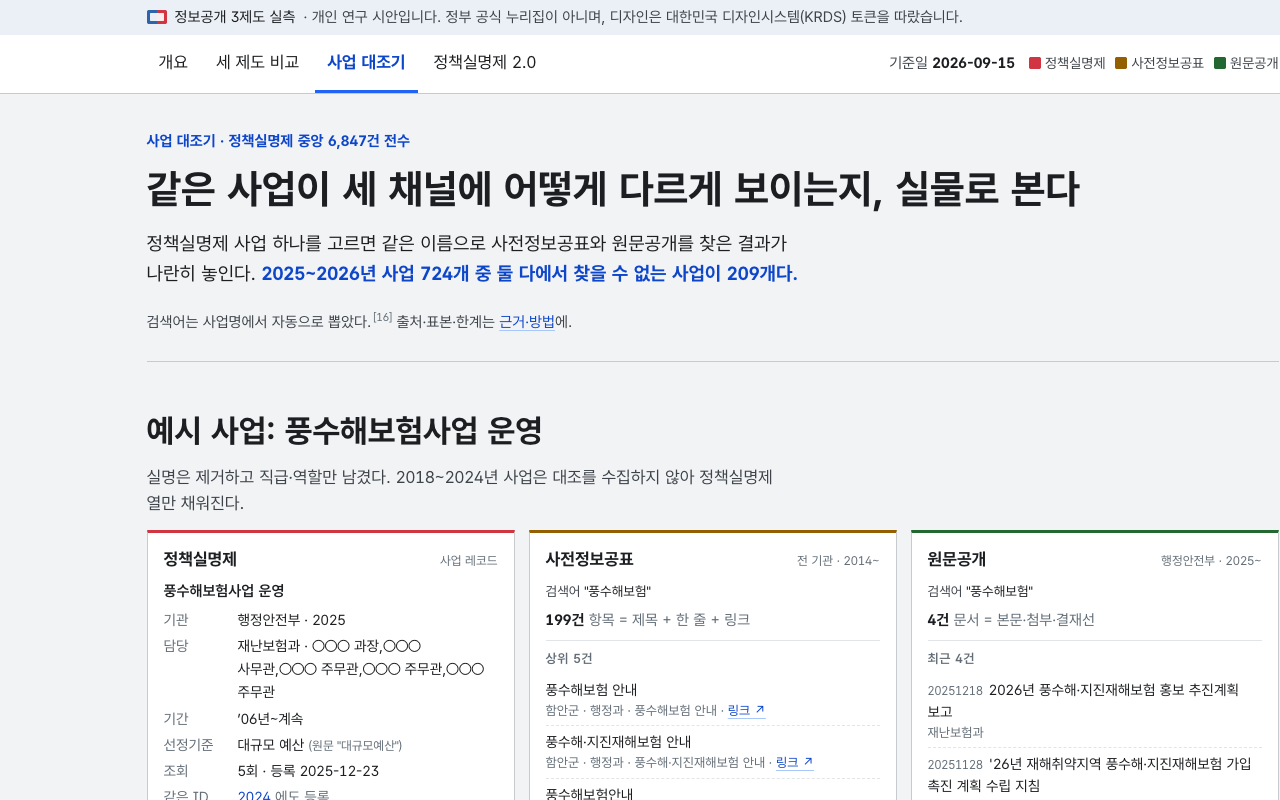
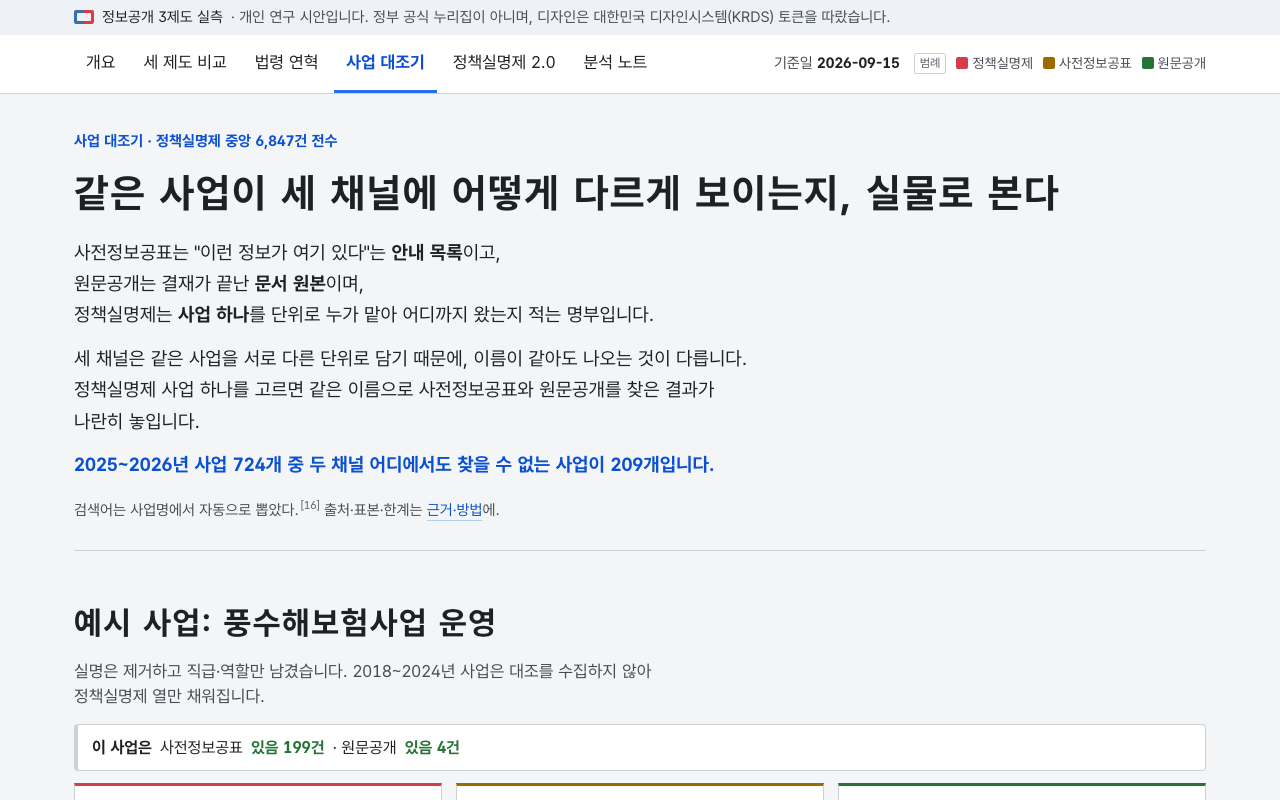
feat(index): overhaul the overview — six-note digest section, fourth page card, refreshed ticker and previews
- tools/build-digest.mjs → notes/digest.json: headline number and one-line finding per note, read from each note's output file; injected via /*__DGDATA__*/
- overview: '여섯 번 재어 보니' six cards after the 질문 셋 table; page cards now four (분석 노트 added, two columns); ticker leads with note numbers and takes 국민신청 from note 1's data
- date stamp unified to 2026-09-15~18 on 개요·비교·2.0·노트 (history keeps its law snapshot date, explorer its 09-15 collection date)
- four previews regenerated from page tops (2.0 preview showed the retired 정책 번호 mockup)

Claude-Session: https://claude.ai/code/session_01TUF7RFUw4MQjg7DEHsXea4

diff --git a/docs/index.html b/docs/index.html
@@ -295,7 +295,20 @@ body{background:var(--cream);color:var(--ink0)}
 .ov td.j{font-size:13px;color:var(--acc);font-weight:600;white-space:nowrap}
 
 /* page cards */
-.pages{display:grid;grid-template-columns:repeat(3,minmax(0,1fr));gap:16px}
+.pages{display:grid;grid-template-columns:repeat(2,minmax(0,1fr));gap:16px}
+/* 분석 노트 여섯 — 발견 한 줄 + 대표 숫자 */
+.fn{display:grid;grid-template-columns:repeat(3,minmax(0,1fr));gap:14px}
+.fn a{display:flex;flex-direction:column;border:1px solid var(--line-c);border-radius:var(--r-m);background:#fff;padding:18px 20px 16px;color:inherit;text-decoration:none;transition:border-color .15s}
+.fn a:hover{border-color:var(--ink2)}
+.fn .g{font-size:12px;font-weight:700;color:var(--ink2);letter-spacing:.02em}
+.fn .g i{display:inline-block;font-style:normal;font-family:var(--mono);font-weight:500;margin-right:6px;color:var(--ink0)}
+.fn h3{font-size:17px;line-height:1.4;margin:6px 0 12px;color:var(--ink0);letter-spacing:-.01em}
+.fn .v{font-family:var(--mono);font-size:27px;font-weight:500;letter-spacing:-.02em;color:var(--ink0);line-height:1.1}
+.fn .u{display:block;font-size:13px;color:var(--ink2);margin-top:4px}
+.fn p{font-size:14px;line-height:1.6;color:var(--ink2);margin:10px 0 0;flex:1}
+.fn .go{font-size:13px;font-weight:700;color:var(--ink0);margin-top:12px}
+@media (max-width:900px){.fn{grid-template-columns:1fr 1fr}}
+@media (max-width:640px){.fn{grid-template-columns:1fr}}
 .pc{background:var(--card);border:1px solid var(--line-c);border-radius:var(--r-m);overflow:hidden;text-decoration:none;color:var(--ink0);display:flex;flex-direction:column;transition:transform .2s,box-shadow .2s}
 .pc:hover{transform:translateY(-3px);box-shadow:0 24px 40px -24px rgba(21,23,28,.35)}
 .pc .img{aspect-ratio:16/10;background:var(--cream-2);overflow:hidden;border-bottom:1px solid var(--cream-2)}
@@ -395,7 +408,7 @@ body{background:var(--cream);color:var(--ink0)}
 <div class="masthead"><div class="in"><span class="flag" aria-hidden="true"></span><span>정보공개 3제도 실측</span><span class="note">· 개인 연구 시안입니다. 정부 공식 누리집이 아니며, 디자인은 대한민국 디자인시스템(KRDS) 토큰을 따랐습니다.</span></div></div>
 <div class="bar"><div class="in">
   <nav><a class="on" href="./"><span class="long">개요</span><span class="short">개요</span></a><a href="compare.html"><span class="long">세 제도 비교</span><span class="short">비교</span></a><a href="history.html"><span class="long">법령 연혁</span><span class="short">연혁</span></a><a href="explorer/"><span class="long">사업 대조기</span><span class="short">대조</span></a><a href="policy2.html"><span class="long">정책실명제 2.0</span><span class="short">2.0</span></a><a href="notes.html"><span class="long">분석 노트</span><span class="short">분석</span></a></nav>
-  <div class="meta"><span>기준일 <b>2026-09-15~16</b></span><span class="legend"><span><i class="rn"></i>정책실명제</span><span><i class="pv"></i>사전정보공표</span><span><i class="og"></i>원문공개</span></span></div>
+  <div class="meta"><span>기준일 <b>2026-09-15~18</b></span><span class="legend"><span><i class="rn"></i>정책실명제</span><span><i class="pv"></i>사전정보공표</span><span><i class="og"></i>원문공개</span></span></div>
 </div></div>
 
 <main class="wrap home" id="content">
@@ -403,7 +416,7 @@ body{background:var(--cream);color:var(--ink0)}
   <!-- HERO -->
   <section class="hero">
     <div>
-      <div class="eyebrow">정보공개포털 실측 · 2026-09-15~16 기준</div>
+      <div class="eyebrow">정보공개포털 실측 · 2026-09-15~18 기준</div>
       <h1>세 제도는<br><em>단위</em>가 다르다</h1>
       <p class="lede">사전정보공표는 <b>안내 목록</b>, 원문공개는 <b>결재문서</b>,<br>
         정책실명제는 <b>사업 하나</b>를 단위로 누가 맡아 어디까지 왔는지 적는 명부입니다.</p>
@@ -441,6 +454,15 @@ body{background:var(--cream);color:var(--ink0)}
       <a class="more" href="notes.html#note4">세 얼굴 전부 보기 →</a>
     </div>
     <div class="qa" id="qaHome"></div>
+  </section>
+
+  <!-- 분석 노트 여섯 — 발견과 대표 숫자 -->
+  <section class="sec">
+    <div class="head">
+      <div><h2>여섯 번 재어 보니</h2><p class="sub">세 제도를 참여·위상·공개·연계 네 갈래에서 실측한 분석 노트 여섯 편입니다. 숫자마다 별첨과 다시 돌릴 수 있는 산출 스크립트가 붙어 있습니다.</p></div>
+      <a class="more" href="notes.html">분석 노트 전부 보기 →</a>
+    </div>
+    <div class="fn" id="fnHome"></div>
   </section>
 
   <!-- 비유: 세 곳으로 흩어진 현장 → 대장 한 장 -->
@@ -592,11 +614,12 @@ body{background:var(--cream);color:var(--ink0)}
 
   <!-- PAGES -->
   <section class="sec">
-    <div class="head"><div><h2>비교하고, 대조하고, 잇는다</h2><p class="sub">세 제도가 서로를 대체하지 못하는 이유, 같은 사업을 세 채널에서 나란히 놓는 대조기, 정책 하나로 결정·문서·사람을 잇는 2.0 화면입니다.</p></div></div>
+    <div class="head"><div><h2>비교하고, 대조하고, 잇고, 재다</h2><p class="sub">세 제도가 서로를 대체하지 못하는 이유, 같은 사업을 세 채널에서 나란히 놓는 대조기, 국정과제 번호로 결정·문서·사람을 잇는 2.0 화면, 그리고 실측 노트 여섯 편입니다.</p></div></div>
     <div class="pages">
       <a class="pc" href="compare.html"><div class="img"><img src="assets/preview-compare.png" alt="세 제도 비교" loading="lazy"></div><div class="body"><span class="no">01 · 비교</span><h3>세 제도 비교</h3><p>아홉 기준 매트릭스와 그 아래 한 층 더. 항목을 고르면 세 제도의 실측치와 근거가 나란히 열린다.</p><span class="go">열기 <svg viewBox="0 0 24 24" fill="none" stroke="currentColor" stroke-width="2.2" stroke-linecap="round" stroke-linejoin="round"><path d="M5 12h14M12 5l7 7-7 7"/></svg></span></div></a>
       <a class="pc" href="explorer/"><div class="img"><img src="assets/preview-explorer.png" alt="사업 대조기" loading="lazy"></div><div class="body"><span class="no">02 · 대조</span><h3>사업 대조기</h3><p>정책실명제 사업 하나를 고르면 사전정보공표·원문공개의 실제 등록 건이 나란히. 기관별 현황과 근거 각주까지.</p><span class="go">열기 <svg viewBox="0 0 24 24" fill="none" stroke="currentColor" stroke-width="2.2" stroke-linecap="round" stroke-linejoin="round"><path d="M5 12h14M12 5l7 7-7 7"/></svg></span></div></a>
       <a class="pc" href="policy2.html"><div class="img"><img src="assets/preview-policy2.png" alt="정책실명제 2.0" loading="lazy"></div><div class="body"><span class="no">03 · 2.0</span><h3>정책실명제 2.0</h3><p>정책 하나를 열면 4년 계보, 후속 조치, 결재문서와 원문이 한 화면에. 행안부 주민자치회 사업을 실측 데이터로 옮긴 시안.</p><span class="go">열기 <svg viewBox="0 0 24 24" fill="none" stroke="currentColor" stroke-width="2.2" stroke-linecap="round" stroke-linejoin="round"><path d="M5 12h14M12 5l7 7-7 7"/></svg></span></div></a>
+      <a class="pc" href="notes.html"><div class="img"><img src="assets/preview-notes.png" alt="분석 노트" loading="lazy"></div><div class="body"><span class="no">04 · 노트</span><h3>분석 노트</h3><p>참여·위상·공개·연계 네 갈래 여섯 편. 국정과제 123개와 세부과제 554개를 정책실명제와 대조한 격자, 누리집 실측, 세 얼굴까지.</p><span class="go">열기 <svg viewBox="0 0 24 24" fill="none" stroke="currentColor" stroke-width="2.2" stroke-linecap="round" stroke-linejoin="round"><path d="M5 12h14M12 5l7 7-7 7"/></svg></span></div></a>
     </div>
   </section>
 
@@ -618,6 +641,98 @@ body{background:var(--cream);color:var(--ink0)}
     </div>
   </section>
 </main>
+
+<script>/* 개요 요약 — notes/digest.json (node tools/build-digest.mjs) */
+
+const DG = {
+  "작성일": "2026-09-17",
+  "기준일": "2026-09-15~18",
+  "노트": [
+    {
+      "n": 1,
+      "g": "참여",
+      "id": "note1",
+      "t": "국민이 신청한 정책실명제는 왜 줄었나",
+      "v": "35 → 2건",
+      "u": "2019 → 2025",
+      "d": "국민신청 조문이 생긴 2018년이 정점이었고, 지금은 전체 6,847건 중 135건(2%)입니다."
+    },
+    {
+      "n": 2,
+      "g": "위상",
+      "id": "note2",
+      "t": "지표를 바꾸면 우열이 뒤집힌다",
+      "v": "8지표",
+      "u": "4장면",
+      "d": "정책 단위 정합성·책임 소재·갱신 적시성·접근 용이성 등 어느 축을 고르느냐에 따라 앞서는 제도가 달라집니다. 우열이 아니라 기능 분담의 문제입니다."
+    },
+    {
+      "n": 3,
+      "g": "공개",
+      "id": "note3",
+      "t": "포털의 0은 미활동이 아니라 미등록이다",
+      "v": "317건",
+      "u": "누리집엔 있고 포털엔 없음",
+      "d": "기관 누리집 15곳을 직접 열어 셌습니다. 검사가 짚은 22칸 중 17칸이 맞았습니다(적중률 77%)."
+    },
+    {
+      "n": 4,
+      "g": "연계",
+      "id": "note4",
+      "t": "같은 사업의 세 얼굴 — 명패, 안내판, 원본",
+      "v": "3질문",
+      "u": "답하는 제도가 하나씩 다름",
+      "d": "풍수해보험 하나를 세 제도에서 꺼내 국민이 물을 법한 질문 셋을 던졌습니다. 누가 맡았나는 정책실명제, 어떻게 가입하나는 사전정보공표, 언제 무엇을 결정했나는 원문공개가 답합니다."
+    },
+    {
+      "n": 5,
+      "g": "연계",
+      "id": "note5",
+      "t": "국정과제에서 정책실명제로 — 지금은 건너갈 수 없다",
+      "v": "3 / 123",
+      "u": "번호로 닿는 과제",
+      "d": "정책실명제 카드에 국정과제 번호 칸이 없습니다. 주관부처를 다리로 삼아도 올해 사업을 올린 부처가 있는 과제는 10개뿐이고(45곳 중 7곳만 등록), 그마저 어느 과제인지는 특정할 수 없습니다. 주관부처가 포털에 아예 없는 과제도 10개입니다."
+    },
+    {
+      "n": 6,
+      "g": "위상",
+      "id": "note6",
+      "t": "이름 있는 곳에 서사가 없고, 서사 있는 곳에 이름이 없다",
+      "v": "95 / 554",
+      "u": "세부과제에 정책실명제 사업 있음 · 17%",
+      "d": "세부과제 554개를 정책실명제 사업과 이름·본문으로 대조하고 사람이 읽어 판정했습니다. 확실 95개(43개 과제). 카드 784장 중 국정과제를 본문에 적은 카드는 14장입니다."
+    }
+  ],
+  "띠": [
+    [
+      "국정과제 123개 중 번호로 닿는 과제",
+      "3개",
+      "d",
+      "정책실명제 카드에 번호 칸 없음"
+    ],
+    [
+      "세부과제 554개 중 정책실명제 사업 있음",
+      "95개",
+      "",
+      "17% · 사람이 읽어 판정"
+    ],
+    [
+      "누리집엔 있고 포털엔 없는 사업",
+      "317건",
+      "d",
+      "누리집 15곳 실측"
+    ],
+    [
+      "국정과제를 본문에 적은 카드",
+      "14장",
+      "d",
+      "784장 중"
+    ]
+  ]
+}
+;
+
+</script>
 
 <script>
 (function(){
@@ -829,6 +944,13 @@ body{background:var(--cream);color:var(--ink0)}
   }
 }
 ;
+  (function(){
+    var el=document.getElementById('fnHome'); if(!el||!DG||!DG.노트) return;
+    var esc=function(s){ return String(s).replace(/[&<>"]/g,function(c){ return {'&':'&amp;','<':'&lt;','>':'&gt;','"':'&quot;'}[c]; }); };
+    el.innerHTML=DG.노트.map(function(n){
+      return '<a href="notes.html#'+n.id+'"><span class="g"><i>'+n.n+'</i>'+esc(n.g)+'</span><h3>'+esc(n.t)+'</h3><span class="v">'+esc(n.v)+'</span><span class="u">'+esc(n.u)+'</span><p>'+esc(n.d)+'</p><span class="go">노트 '+n.n+' 열기 →</span></a>';
+    }).join('');
+  })();
   var qa = document.getElementById('qaHome');
   if (!TF || !qa) return;
   var esc = function(s){ return String(s).replace(/&/g,"&amp;").replace(/</g,"&lt;"); };
@@ -874,7 +996,9 @@ body{background:var(--cream);color:var(--ink0)}
 
   /* ── 티커 ── */
   const TK=[['정책실명제 등록 부처',"42 → 7",'d','2018 → 2026.9'],['등록 사업',"959 → 167",'d','2018 → 2026.9'],['포털에서 열린 횟수 · 한가운데 사업',"10 → 0회",'d','2018 → 2026'],['관련 원문이 붙은 사업',"35%",'','784건 중 272'],['국민신청 선정',"36 → 5건",'d','2018 → 2025'],['2025 등록 후 2026 미등록',"23기관",'d','30곳 중'],['원문공개 하루 신규',"4,000건",'u','중앙·지자체 평일'],['사전정보공표 항목',"246,604",'u','포털 전체'],['지자체 정책실명제 데이터',"0건",'d','포털엔 링크 261개'],['중앙 원문공개율',"49%",'','2025 · 대검 1% ~ 기상청 80%']];
-  const tkHtml=TK.map(([k,v,c,s])=>`<div class="it"><span class="k">${k}</span><span class="v ${c}">${v}</span><span class="k">${s}</span></div>`).join('');
+  // 노트에서 나온 숫자를 앞에 세운다. 국민신청 항목은 노트 ①의 산출값으로 바꾼다(정적 값과 두 번 세지 않기 위해).
+  const TKD=(DG&&DG.띠?DG.띠:[]).concat(DG&&DG.노트?[['국민이 신청한 정책실명제',DG.노트[0].v,'d',DG.노트[0].u]]:[]).concat(TK.filter(r=>r[0]!=='국민신청 선정'));
+  const tkHtml=TKD.map(([k,v,c,s])=>`<div class="it"><span class="k">${k}</span><span class="v ${c}">${v}</span><span class="k">${s}</span></div>`).join('');
   $('#tk').innerHTML=tkHtml+tkHtml;
 
   /* ── 아홉 기준 요약 ── */
@@ -897,7 +1021,7 @@ body{background:var(--cream);color:var(--ink0)}
 </script>
 <div class="kfoot"><div class="in">
   <span class="id"><span class="flag" aria-hidden="true"></span>open-go-corpus · 정보공개 3제도 실측</span>
-  <span class="note">출처: 정보공개포털(open.go.kr) 실측 2026-09-15~16 · 법령: 국가법령정보센터 · 코드 <a href="https://github.com/hosungseo/open-go-corpus">github.com/hosungseo/open-go-corpus</a> · 담당자·결재선 실명 제거</span>
+  <span class="note">출처: 정보공개포털(open.go.kr) 실측 2026-09-15~18 · 법령: 국가법령정보센터 · 코드 <a href="https://github.com/hosungseo/open-go-corpus">github.com/hosungseo/open-go-corpus</a> · 담당자·결재선 실명 제거</span>
 </div></div>
 </body>
 </html>

diff --git a/docs/src/index.html b/docs/src/index.html
@@ -99,7 +99,20 @@ body{background:var(--cream);color:var(--ink0)}
 .ov td.j{font-size:13px;color:var(--acc);font-weight:600;white-space:nowrap}
 
 /* page cards */
-.pages{display:grid;grid-template-columns:repeat(3,minmax(0,1fr));gap:16px}
+.pages{display:grid;grid-template-columns:repeat(2,minmax(0,1fr));gap:16px}
+/* 분석 노트 여섯 — 발견 한 줄 + 대표 숫자 */
+.fn{display:grid;grid-template-columns:repeat(3,minmax(0,1fr));gap:14px}
+.fn a{display:flex;flex-direction:column;border:1px solid var(--line-c);border-radius:var(--r-m);background:#fff;padding:18px 20px 16px;color:inherit;text-decoration:none;transition:border-color .15s}
+.fn a:hover{border-color:var(--ink2)}
+.fn .g{font-size:12px;font-weight:700;color:var(--ink2);letter-spacing:.02em}
+.fn .g i{display:inline-block;font-style:normal;font-family:var(--mono);font-weight:500;margin-right:6px;color:var(--ink0)}
+.fn h3{font-size:17px;line-height:1.4;margin:6px 0 12px;color:var(--ink0);letter-spacing:-.01em}
+.fn .v{font-family:var(--mono);font-size:27px;font-weight:500;letter-spacing:-.02em;color:var(--ink0);line-height:1.1}
+.fn .u{display:block;font-size:13px;color:var(--ink2);margin-top:4px}
+.fn p{font-size:14px;line-height:1.6;color:var(--ink2);margin:10px 0 0;flex:1}
+.fn .go{font-size:13px;font-weight:700;color:var(--ink0);margin-top:12px}
+@media (max-width:900px){.fn{grid-template-columns:1fr 1fr}}
+@media (max-width:640px){.fn{grid-template-columns:1fr}}
 .pc{background:var(--card);border:1px solid var(--line-c);border-radius:var(--r-m);overflow:hidden;text-decoration:none;color:var(--ink0);display:flex;flex-direction:column;transition:transform .2s,box-shadow .2s}
 .pc:hover{transform:translateY(-3px);box-shadow:0 24px 40px -24px rgba(21,23,28,.35)}
 .pc .img{aspect-ratio:16/10;background:var(--cream-2);overflow:hidden;border-bottom:1px solid var(--cream-2)}
@@ -199,7 +212,7 @@ body{background:var(--cream);color:var(--ink0)}
 <div class="masthead"><div class="in"><span class="flag" aria-hidden="true"></span><span>정보공개 3제도 실측</span><span class="note">· 개인 연구 시안입니다. 정부 공식 누리집이 아니며, 디자인은 대한민국 디자인시스템(KRDS) 토큰을 따랐습니다.</span></div></div>
 <div class="bar"><div class="in">
   <nav><a class="on" href="./"><span class="long">개요</span><span class="short">개요</span></a><a href="compare.html"><span class="long">세 제도 비교</span><span class="short">비교</span></a><a href="history.html"><span class="long">법령 연혁</span><span class="short">연혁</span></a><a href="explorer/"><span class="long">사업 대조기</span><span class="short">대조</span></a><a href="policy2.html"><span class="long">정책실명제 2.0</span><span class="short">2.0</span></a><a href="notes.html"><span class="long">분석 노트</span><span class="short">분석</span></a></nav>
-  <div class="meta"><span>기준일 <b>2026-09-15~16</b></span><span class="legend"><span><i class="rn"></i>정책실명제</span><span><i class="pv"></i>사전정보공표</span><span><i class="og"></i>원문공개</span></span></div>
+  <div class="meta"><span>기준일 <b>2026-09-15~18</b></span><span class="legend"><span><i class="rn"></i>정책실명제</span><span><i class="pv"></i>사전정보공표</span><span><i class="og"></i>원문공개</span></span></div>
 </div></div>
 
 <main class="wrap home" id="content">
@@ -207,7 +220,7 @@ body{background:var(--cream);color:var(--ink0)}
   <!-- HERO -->
   <section class="hero">
     <div>
-      <div class="eyebrow">정보공개포털 실측 · 2026-09-15~16 기준</div>
+      <div class="eyebrow">정보공개포털 실측 · 2026-09-15~18 기준</div>
       <h1>세 제도는<br><em>단위</em>가 다르다</h1>
       <p class="lede">사전정보공표는 <b>안내 목록</b>, 원문공개는 <b>결재문서</b>,<br>
         정책실명제는 <b>사업 하나</b>를 단위로 누가 맡아 어디까지 왔는지 적는 명부입니다.</p>
@@ -245,6 +258,15 @@ body{background:var(--cream);color:var(--ink0)}
       <a class="more" href="notes.html#note4">세 얼굴 전부 보기 →</a>
     </div>
     <div class="qa" id="qaHome"></div>
+  </section>
+
+  <!-- 분석 노트 여섯 — 발견과 대표 숫자 -->
+  <section class="sec">
+    <div class="head">
+      <div><h2>여섯 번 재어 보니</h2><p class="sub">세 제도를 참여·위상·공개·연계 네 갈래에서 실측한 분석 노트 여섯 편입니다. 숫자마다 별첨과 다시 돌릴 수 있는 산출 스크립트가 붙어 있습니다.</p></div>
+      <a class="more" href="notes.html">분석 노트 전부 보기 →</a>
+    </div>
+    <div class="fn" id="fnHome"></div>
   </section>
 
   <!-- 비유: 세 곳으로 흩어진 현장 → 대장 한 장 -->
@@ -396,11 +418,12 @@ body{background:var(--cream);color:var(--ink0)}
 
   <!-- PAGES -->
   <section class="sec">
-    <div class="head"><div><h2>비교하고, 대조하고, 잇는다</h2><p class="sub">세 제도가 서로를 대체하지 못하는 이유, 같은 사업을 세 채널에서 나란히 놓는 대조기, 정책 하나로 결정·문서·사람을 잇는 2.0 화면입니다.</p></div></div>
+    <div class="head"><div><h2>비교하고, 대조하고, 잇고, 재다</h2><p class="sub">세 제도가 서로를 대체하지 못하는 이유, 같은 사업을 세 채널에서 나란히 놓는 대조기, 국정과제 번호로 결정·문서·사람을 잇는 2.0 화면, 그리고 실측 노트 여섯 편입니다.</p></div></div>
     <div class="pages">
       <a class="pc" href="compare.html"><div class="img"><img src="assets/preview-compare.png" alt="세 제도 비교" loading="lazy"></div><div class="body"><span class="no">01 · 비교</span><h3>세 제도 비교</h3><p>아홉 기준 매트릭스와 그 아래 한 층 더. 항목을 고르면 세 제도의 실측치와 근거가 나란히 열린다.</p><span class="go">열기 <svg viewBox="0 0 24 24" fill="none" stroke="currentColor" stroke-width="2.2" stroke-linecap="round" stroke-linejoin="round"><path d="M5 12h14M12 5l7 7-7 7"/></svg></span></div></a>
       <a class="pc" href="explorer/"><div class="img"><img src="assets/preview-explorer.png" alt="사업 대조기" loading="lazy"></div><div class="body"><span class="no">02 · 대조</span><h3>사업 대조기</h3><p>정책실명제 사업 하나를 고르면 사전정보공표·원문공개의 실제 등록 건이 나란히. 기관별 현황과 근거 각주까지.</p><span class="go">열기 <svg viewBox="0 0 24 24" fill="none" stroke="currentColor" stroke-width="2.2" stroke-linecap="round" stroke-linejoin="round"><path d="M5 12h14M12 5l7 7-7 7"/></svg></span></div></a>
       <a class="pc" href="policy2.html"><div class="img"><img src="assets/preview-policy2.png" alt="정책실명제 2.0" loading="lazy"></div><div class="body"><span class="no">03 · 2.0</span><h3>정책실명제 2.0</h3><p>정책 하나를 열면 4년 계보, 후속 조치, 결재문서와 원문이 한 화면에. 행안부 주민자치회 사업을 실측 데이터로 옮긴 시안.</p><span class="go">열기 <svg viewBox="0 0 24 24" fill="none" stroke="currentColor" stroke-width="2.2" stroke-linecap="round" stroke-linejoin="round"><path d="M5 12h14M12 5l7 7-7 7"/></svg></span></div></a>
+      <a class="pc" href="notes.html"><div class="img"><img src="assets/preview-notes.png" alt="분석 노트" loading="lazy"></div><div class="body"><span class="no">04 · 노트</span><h3>분석 노트</h3><p>참여·위상·공개·연계 네 갈래 여섯 편. 국정과제 123개와 세부과제 554개를 정책실명제와 대조한 격자, 누리집 실측, 세 얼굴까지.</p><span class="go">열기 <svg viewBox="0 0 24 24" fill="none" stroke="currentColor" stroke-width="2.2" stroke-linecap="round" stroke-linejoin="round"><path d="M5 12h14M12 5l7 7-7 7"/></svg></span></div></a>
     </div>
   </section>
 
@@ -423,9 +446,22 @@ body{background:var(--cream);color:var(--ink0)}
   </section>
 </main>
 
+<script>/* 개요 요약 — notes/digest.json (node tools/build-digest.mjs) */
+
+const DG = /*__DGDATA__*/null;
+
+</script>
+
 <script>
 (function(){
   var TF = /*__TFDATA__*/null;
+  (function(){
+    var el=document.getElementById('fnHome'); if(!el||!DG||!DG.노트) return;
+    var esc=function(s){ return String(s).replace(/[&<>"]/g,function(c){ return {'&':'&amp;','<':'&lt;','>':'&gt;','"':'&quot;'}[c]; }); };
+    el.innerHTML=DG.노트.map(function(n){
+      return '<a href="notes.html#'+n.id+'"><span class="g"><i>'+n.n+'</i>'+esc(n.g)+'</span><h3>'+esc(n.t)+'</h3><span class="v">'+esc(n.v)+'</span><span class="u">'+esc(n.u)+'</span><p>'+esc(n.d)+'</p><span class="go">노트 '+n.n+' 열기 →</span></a>';
+    }).join('');
+  })();
   var qa = document.getElementById('qaHome');
   if (!TF || !qa) return;
   var esc = function(s){ return String(s).replace(/&/g,"&amp;").replace(/</g,"&lt;"); };
@@ -471,7 +507,9 @@ body{background:var(--cream);color:var(--ink0)}
 
   /* ── 티커 ── */
   const TK=[['정책실명제 등록 부처',"42 → 7",'d','2018 → 2026.9'],['등록 사업',"959 → 167",'d','2018 → 2026.9'],['포털에서 열린 횟수 · 한가운데 사업',"10 → 0회",'d','2018 → 2026'],['관련 원문이 붙은 사업',"35%",'','784건 중 272'],['국민신청 선정',"36 → 5건",'d','2018 → 2025'],['2025 등록 후 2026 미등록',"23기관",'d','30곳 중'],['원문공개 하루 신규',"4,000건",'u','중앙·지자체 평일'],['사전정보공표 항목',"246,604",'u','포털 전체'],['지자체 정책실명제 데이터',"0건",'d','포털엔 링크 261개'],['중앙 원문공개율',"49%",'','2025 · 대검 1% ~ 기상청 80%']];
-  const tkHtml=TK.map(([k,v,c,s])=>`<div class="it"><span class="k">${k}</span><span class="v ${c}">${v}</span><span class="k">${s}</span></div>`).join('');
+  // 노트에서 나온 숫자를 앞에 세운다. 국민신청 항목은 노트 ①의 산출값으로 바꾼다(정적 값과 두 번 세지 않기 위해).
+  const TKD=(DG&&DG.띠?DG.띠:[]).concat(DG&&DG.노트?[['국민이 신청한 정책실명제',DG.노트[0].v,'d',DG.노트[0].u]]:[]).concat(TK.filter(r=>r[0]!=='국민신청 선정'));
+  const tkHtml=TKD.map(([k,v,c,s])=>`<div class="it"><span class="k">${k}</span><span class="v ${c}">${v}</span><span class="k">${s}</span></div>`).join('');
   $('#tk').innerHTML=tkHtml+tkHtml;
 
   /* ── 아홉 기준 요약 ── */
@@ -494,7 +532,7 @@ body{background:var(--cream);color:var(--ink0)}
 </script>
 <div class="kfoot"><div class="in">
   <span class="id"><span class="flag" aria-hidden="true"></span>open-go-corpus · 정보공개 3제도 실측</span>
-  <span class="note">출처: 정보공개포털(open.go.kr) 실측 2026-09-15~16 · 법령: 국가법령정보센터 · 코드 <a href="https://github.com/hosungseo/open-go-corpus">github.com/hosungseo/open-go-corpus</a> · 담당자·결재선 실명 제거</span>
+  <span class="note">출처: 정보공개포털(open.go.kr) 실측 2026-09-15~18 · 법령: 국가법령정보센터 · 코드 <a href="https://github.com/hosungseo/open-go-corpus">github.com/hosungseo/open-go-corpus</a> · 담당자·결재선 실명 제거</span>
 </div></div>
 </body>
 </html>

diff --git a/docs/policy2.html b/docs/policy2.html
@@ -357,7 +357,7 @@ section.core .eyebrow{font-size:12px;letter-spacing:.1em;color:var(--ink-3);font
 <div class="masthead"><div class="in"><span class="flag" aria-hidden="true"></span><span>정보공개 3제도 실측</span><span class="note">· 개인 연구 시안입니다. 정부 공식 누리집이 아니며, 디자인은 대한민국 디자인시스템(KRDS) 토큰을 따랐습니다.</span></div></div>
 <div class="bar"><div class="in">
   <nav><a href="./"><span class="long">개요</span><span class="short">개요</span></a><a href="compare.html"><span class="long">세 제도 비교</span><span class="short">비교</span></a><a href="history.html"><span class="long">법령 연혁</span><span class="short">연혁</span></a><a href="explorer/"><span class="long">사업 대조기</span><span class="short">대조</span></a><a class="on" href="policy2.html"><span class="long">정책실명제 2.0</span><span class="short">2.0</span></a><a href="notes.html"><span class="long">분석 노트</span><span class="short">분석</span></a></nav>
-  <div class="meta"><span>기준일 <b>2026-09-15~16</b></span><span class="legend"><span><i class="rn"></i>정책실명제</span><span><i class="pv"></i>사전정보공표</span><span><i class="og"></i>원문공개</span></span></div>
+  <div class="meta"><span>기준일 <b>2026-09-15~18</b></span><span class="legend"><span><i class="rn"></i>정책실명제</span><span><i class="pv"></i>사전정보공표</span><span><i class="og"></i>원문공개</span></span></div>
 </div></div>
 
 <main class="wrap wide" id="content">

diff --git a/docs/src/policy2.html b/docs/src/policy2.html
@@ -161,7 +161,7 @@ section.core .eyebrow{font-size:12px;letter-spacing:.1em;color:var(--ink-3);font
 <div class="masthead"><div class="in"><span class="flag" aria-hidden="true"></span><span>정보공개 3제도 실측</span><span class="note">· 개인 연구 시안입니다. 정부 공식 누리집이 아니며, 디자인은 대한민국 디자인시스템(KRDS) 토큰을 따랐습니다.</span></div></div>
 <div class="bar"><div class="in">
   <nav><a href="./"><span class="long">개요</span><span class="short">개요</span></a><a href="compare.html"><span class="long">세 제도 비교</span><span class="short">비교</span></a><a href="history.html"><span class="long">법령 연혁</span><span class="short">연혁</span></a><a href="explorer/"><span class="long">사업 대조기</span><span class="short">대조</span></a><a class="on" href="policy2.html"><span class="long">정책실명제 2.0</span><span class="short">2.0</span></a><a href="notes.html"><span class="long">분석 노트</span><span class="short">분석</span></a></nav>
-  <div class="meta"><span>기준일 <b>2026-09-15~16</b></span><span class="legend"><span><i class="rn"></i>정책실명제</span><span><i class="pv"></i>사전정보공표</span><span><i class="og"></i>원문공개</span></span></div>
+  <div class="meta"><span>기준일 <b>2026-09-15~18</b></span><span class="legend"><span><i class="rn"></i>정책실명제</span><span><i class="pv"></i>사전정보공표</span><span><i class="og"></i>원문공개</span></span></div>
 </div></div>
 
 <main class="wrap wide" id="content">

diff --git a/docs/compare.html b/docs/compare.html
@@ -270,7 +270,7 @@ section.core .eyebrow{font-size:13px;letter-spacing:.1em;color:var(--ink-3);font
 <div class="masthead"><div class="in"><span class="flag" aria-hidden="true"></span><span>정보공개 3제도 실측</span><span class="note">· 개인 연구 시안입니다. 정부 공식 누리집이 아니며, 디자인은 대한민국 디자인시스템(KRDS) 토큰을 따랐습니다.</span></div></div>
 <div class="bar"><div class="in">
   <nav><a href="./"><span class="long">개요</span><span class="short">개요</span></a><a class="on" href="compare.html"><span class="long">세 제도 비교</span><span class="short">비교</span></a><a href="history.html"><span class="long">법령 연혁</span><span class="short">연혁</span></a><a href="explorer/"><span class="long">사업 대조기</span><span class="short">대조</span></a><a href="policy2.html"><span class="long">정책실명제 2.0</span><span class="short">2.0</span></a><a href="notes.html"><span class="long">분석 노트</span><span class="short">분석</span></a></nav>
-  <div class="meta"><span>기준일 <b>2026-09-15~16</b></span><span class="legend"><span><i class="rn"></i>정책실명제</span><span><i class="pv"></i>사전정보공표</span><span><i class="og"></i>원문공개</span></span></div>
+  <div class="meta"><span>기준일 <b>2026-09-15~18</b></span><span class="legend"><span><i class="rn"></i>정책실명제</span><span><i class="pv"></i>사전정보공표</span><span><i class="og"></i>원문공개</span></span></div>
 </div></div>
 
 <main class="wrap" id="content">

diff --git a/docs/src/compare.html b/docs/src/compare.html
@@ -74,7 +74,7 @@ section.core .eyebrow{font-size:13px;letter-spacing:.1em;color:var(--ink-3);font
 <div class="masthead"><div class="in"><span class="flag" aria-hidden="true"></span><span>정보공개 3제도 실측</span><span class="note">· 개인 연구 시안입니다. 정부 공식 누리집이 아니며, 디자인은 대한민국 디자인시스템(KRDS) 토큰을 따랐습니다.</span></div></div>
 <div class="bar"><div class="in">
   <nav><a href="./"><span class="long">개요</span><span class="short">개요</span></a><a class="on" href="compare.html"><span class="long">세 제도 비교</span><span class="short">비교</span></a><a href="history.html"><span class="long">법령 연혁</span><span class="short">연혁</span></a><a href="explorer/"><span class="long">사업 대조기</span><span class="short">대조</span></a><a href="policy2.html"><span class="long">정책실명제 2.0</span><span class="short">2.0</span></a><a href="notes.html"><span class="long">분석 노트</span><span class="short">분석</span></a></nav>
-  <div class="meta"><span>기준일 <b>2026-09-15~16</b></span><span class="legend"><span><i class="rn"></i>정책실명제</span><span><i class="pv"></i>사전정보공표</span><span><i class="og"></i>원문공개</span></span></div>
+  <div class="meta"><span>기준일 <b>2026-09-15~18</b></span><span class="legend"><span><i class="rn"></i>정책실명제</span><span><i class="pv"></i>사전정보공표</span><span><i class="og"></i>원문공개</span></span></div>
 </div></div>
 
 <main class="wrap" id="content">

diff --git a/docs/notes.html b/docs/notes.html
@@ -422,7 +422,7 @@ section.appendix th,section.appendix td{padding:10px 12px}
 <div class="masthead"><div class="in"><span class="flag" aria-hidden="true"></span><span>정보공개 3제도 실측</span><span class="note">· 개인 연구 시안입니다. 정부 공식 누리집이 아니며, 디자인은 대한민국 디자인시스템(KRDS) 토큰을 따랐습니다.</span></div></div>
 <div class="bar"><div class="in">
   <nav><a href="./"><span class="long">개요</span><span class="short">개요</span></a><a href="compare.html"><span class="long">세 제도 비교</span><span class="short">비교</span></a><a href="history.html"><span class="long">법령 연혁</span><span class="short">연혁</span></a><a href="explorer/"><span class="long">사업 대조기</span><span class="short">대조</span></a><a href="policy2.html"><span class="long">정책실명제 2.0</span><span class="short">2.0</span></a><a class="on" href="notes.html"><span class="long">분석 노트</span><span class="short">분석</span></a></nav>
-  <div class="meta"><span>기준일 <b>2026-09-15~17</b></span></div>
+  <div class="meta"><span>기준일 <b>2026-09-15~18</b></span></div>
 </div></div>
 <div class="bar2" id="bar2"><div class="in">
   <span class="lbl">갈래</span>

diff --git a/docs/src/notes.html b/docs/src/notes.html
@@ -226,7 +226,7 @@
 <div class="masthead"><div class="in"><span class="flag" aria-hidden="true"></span><span>정보공개 3제도 실측</span><span class="note">· 개인 연구 시안입니다. 정부 공식 누리집이 아니며, 디자인은 대한민국 디자인시스템(KRDS) 토큰을 따랐습니다.</span></div></div>
 <div class="bar"><div class="in">
   <nav><a href="./"><span class="long">개요</span><span class="short">개요</span></a><a href="compare.html"><span class="long">세 제도 비교</span><span class="short">비교</span></a><a href="history.html"><span class="long">법령 연혁</span><span class="short">연혁</span></a><a href="explorer/"><span class="long">사업 대조기</span><span class="short">대조</span></a><a href="policy2.html"><span class="long">정책실명제 2.0</span><span class="short">2.0</span></a><a class="on" href="notes.html"><span class="long">분석 노트</span><span class="short">분석</span></a></nav>
-  <div class="meta"><span>기준일 <b>2026-09-15~17</b></span></div>
+  <div class="meta"><span>기준일 <b>2026-09-15~18</b></span></div>
 </div></div>
 <div class="bar2" id="bar2"><div class="in">
   <span class="lbl">갈래</span>

diff --git a/docs/worklog/2026-09-15-정책실명제-작업기록.md b/docs/worklog/2026-09-15-정책실명제-작업기록.md
@@ -1063,3 +1063,10 @@ aside로 화면과 PDF 「123대 국정과제」를 직접 읽었다.
 - 불일치 19건 재독 → 5건 수정: 11-2·11-4·98-4 확실→애매(같은 영역 다른 조치, 검수자 지적 타당), 68-2 오탐→확실(후보 셋째 「천원의 아침밥…」이 정답 — 1차 덤프가 예 2개만 보여줘서 놓침), 108-1 오탐→애매. 최종 이름 확실 72·애매 12·오탐 17 + 본문 확실 23·애매 12·오탐 28 = 확실 95(17%)·애매 24.
 - 원본 `notes/gukjeong-sub-review-blind.json`. 별첨에 방법·일치율·수정 내역 기재.
 - 함정 메모: (1) 검수 덤프는 후보를 전부 보여줘야 한다 — 예 2개만 보고 판정하면 셋째가 정답인 경우를 놓친다(68-2, 93-1 두 번째 사고). (2) 모델 검수자는 지시가 약하면 읽지 않고 스크립트를 짠다 — "코드 금지, 인용 필수"를 명시하고 이유에 인용부호가 있는지로 검증할 것. (3) 카파 0.5대는 '중간 일치'다. 애매 경계가 사람마다 흔들린다는 것 자체가 결과다.
+
+### 개요 페이지 정비 (2026-09-18)
+- 문제: 분석 노트 여섯 편이 개요에 없었고(페이지 카드 3장은 비교·대조기·2.0뿐), 기준일이 09-15~16에 멈춰 있었고, 상단 띠(핵심 실측치)가 노트 이전 숫자만 돌았다. 2.0 미리보기는 옛 시안(정책 번호 MOIS-P-0117) 캡처였다.
+- `tools/build-digest.mjs` → `notes/digest.json`: 노트 여섯 편의 제목·대표 숫자·한 줄을 각 노트 산출 파일(citizen·compare-axes·venue·three-faces·gukjeong·vision)에서 읽어 작은 JSON 하나로 만든다. 개요에 vision.json(182KB)을 싣지 않기 위한 층. 빌드는 `/*__DGDATA__*/` 마커로 주입(`DG_PATH`). **빌드 순서: build-digest → build-explorer.**
+- 개요: 질문 셋 아래 「여섯 번 재어 보니」 섹션(카드 6장: 갈래·발견 문장·대표 숫자·한 줄·링크), 페이지 카드 4장(2열, 「분석 노트」 추가), 띠 앞에 노트 숫자 4개+국민신청(노트 ① 산출값으로 교체 — 정적 36→5와 두 번 세지 않기 위해), 기준일 09-15~18 세 곳.
+- 미리보기 4장을 같은 방법(headless Chrome 1280×800, 페이지 상단)으로 재생성.
+- 함정 메모: (1) 빌드의 `.replace("/*__DGDATA__*/null", …)`는 첫 번째 마커만 치환한다 — 선언은 한 곳에만, 맨 앞 `<script>`의 최상위 `const`로 두면 뒤 블록 전부에서 보인다(다른 블록 안에 `var`로 두면 ReferenceError로 띠·아홉 기준 표가 통째로 죽는다). (2) headless 캡처에 `#note6` 해시를 붙이면 갈래 필터+스크롤로 빈 화면이 찍힌다 — 미리보기는 해시 없이. (3) playwright는 localhost 페이지를 캐시한다 — `?v=N` 필수.
